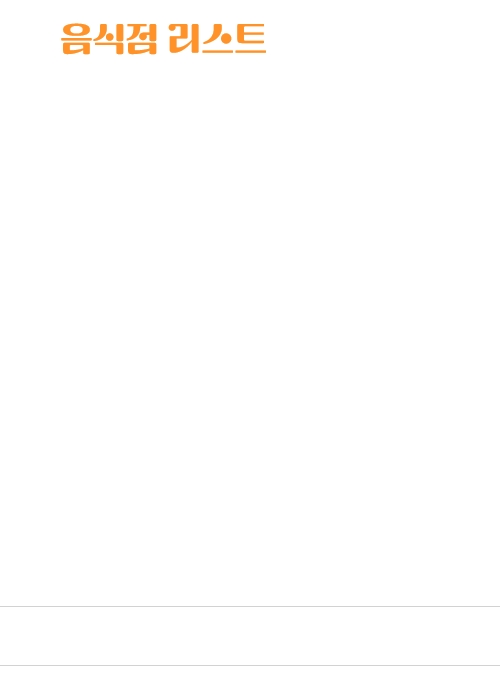
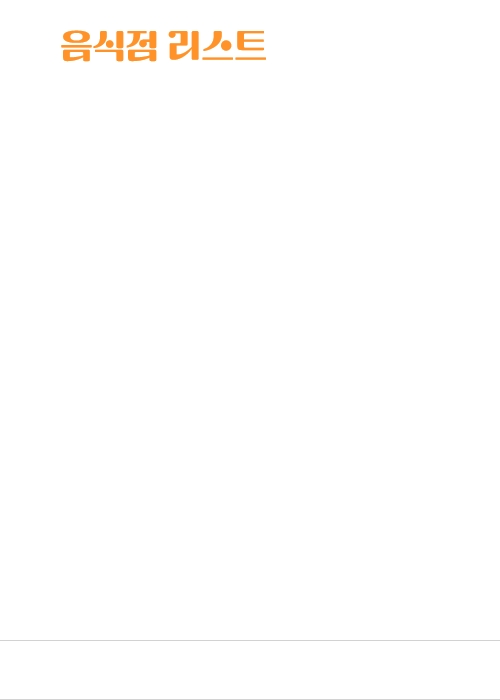
RestaurantFrame,ReservationFrame 배경이미지추가

Changed region(s): [[0.0, 0.99, 1.0, 1.0], [0.12, 0.03, 0.54, 0.09]]

diff --git a/src/tabling/frame/RestaurantListFrame.java b/src/tabling/frame/RestaurantListFrame.java
@@ -44,11 +44,11 @@ public class RestaurantListFrame extends JFrame {
 	private BackgroundPanel bg;
 	private RestaurantListFrame frame;
 	private RestaurantFrame restaurantFrame;
-	
+
 	private JTable table;
 	private JScrollPane scroll;
 	private JComboBox<String> filter;
-	private JButton filterBtn;
+	private JLabel filterBtn;
 	private JLabel homeBtn;
 	private JLabel backBtn;
 	private JTextField searchField;
@@ -102,16 +102,16 @@ public class RestaurantListFrame extends JFrame {
 		// 테이블에 담는 과정
 		tableSet();
 		filter = new JComboBox<String>();
-		filterBtn = new JButton("적용");
-		homeBtn = new JLabel(new ImageIcon("img/home.png"));
+		filterBtn = new JLabel(new ImageIcon("img/적용버튼.png"));
+		homeBtn = new JLabel(new ImageIcon("img/house-solid.png"));
 		backBtn = new JLabel(new ImageIcon("img/quitBtn2.png"));
 		searchField = new JTextField();
 	}
 
 	private void setInitLayout() {
-		bg.setSize(getWidth(),getHeight());
+		bg.setSize(getWidth(), getHeight());
 		bg.setLayout(null);
-		
+
 		setDefaultCloseOperation(JFrame.EXIT_ON_CLOSE);
 		setTitle(" 리스트 화면 " + customerDTO.getCustomerName() + "님");
 		setSize(500, 700);
@@ -120,8 +120,9 @@ public class RestaurantListFrame extends JFrame {
 		setLocationRelativeTo(null); // JFrame을 모니터 가운데 자동 배치
 
 		bg.add(filter);
-		filter.setLocation(270, 80);
-		filter.setSize(110, 30);
+		filter.setBounds(260, 80, 110, 30);
+//		filter.setLocation(270, 80);
+//		filter.setSize(110, 30);
 		filter.setFont(new Font("Noto Sans KR", Font.BOLD, 15));
 
 		for (int i = 0; i < COMBOBOX.length; i++) {
@@ -129,35 +130,36 @@ public class RestaurantListFrame extends JFrame {
 		}
 
 		bg.add(filterBtn);
-		filterBtn.setLocation(400, 80);
-		filterBtn.setSize(70, 30);
+		filterBtn.setBounds(385, 78, 86, 35);
+//		filterBtn.setLocation(400, 80);
+//		filterBtn.setSize(86, 35);
 		filterBtn.setFont(new Font("Noto Sans KR", Font.BOLD, 15));
 
 		bg.add(homeBtn);
-		homeBtn.setLocation(200, 590);
+		homeBtn.setLocation(205, 595);
 		homeBtn.setSize(70, 70);
 
 		bg.add(backBtn);
-		backBtn.setLocation(20, 20);
+		backBtn.setLocation(20, 30);
 		backBtn.setSize(15, 24);
 
 		bg.add(searchField);
 		searchField.setLocation(20, 80);
 		searchField.setSize(202, 30);
 		searchField.setFont(new Font("Noto Sans KR", Font.BOLD, 15));
-		
+
 		add(bg);
 		setVisible(true);
-		
+
 	}
 
 	private void addEventListener() {
 
 		// 적용 버튼
-		filterBtn.addActionListener(new ActionListener() {
+		filterBtn.addMouseListener(new MouseAdapter() {
 
 			@Override
-			public void actionPerformed(ActionEvent e) {
+			public void mousePressed(MouseEvent e) {
 				searchField.setText("");
 				switch (filter.getSelectedItem().toString()) {
 				case RESET:
@@ -182,7 +184,7 @@ public class RestaurantListFrame extends JFrame {
 					setRestaurantList();
 					tableSet();
 					break;
-					// 테이블의 기능을 이용하면 되긴한데 일단 구현해봄
+				// 테이블의 기능을 이용하면 되긴한데 일단 구현해봄
 				case GANADA_UP:
 					RestaurantDTO.setSortType(RestaurantDTO.GANADA);
 					Collections.sort(restaurantList, Collections.reverseOrder());
@@ -206,7 +208,7 @@ public class RestaurantListFrame extends JFrame {
 				}
 			}
 		});
-		
+
 		// 뒤로 가기 버튼 (어느 프레임으로 부터 왔는지를 기억하고 그 곳으로 돌아감)
 		backBtn.addMouseListener(new MouseAdapter() {
 			@Override
@@ -235,7 +237,7 @@ public class RestaurantListFrame extends JFrame {
 				}
 			}
 		});
-		
+
 		// 메인 메뉴로 돌아감
 		homeBtn.addMouseListener(new MouseAdapter() {
 			@Override
@@ -305,7 +307,7 @@ public class RestaurantListFrame extends JFrame {
 			bg.remove(scroll);
 		}
 		contents = new String[restaurantList.size()][head.length];
-		
+
 		// 테이블 내용 입력
 		for (int i = 0; i < restaurantList.size(); i++) {
 			String isOpen = null;
@@ -343,7 +345,7 @@ public class RestaurantListFrame extends JFrame {
 		};
 		sorter = new TableRowSorter<>(tableModel);
 		table.setRowSorter(sorter);
-		
+
 		// 테이블을 스크롤에 넣고 스크롤 설정
 		scroll = new JScrollPane(table);
 		bg.add(scroll);
@@ -374,7 +376,7 @@ public class RestaurantListFrame extends JFrame {
 				this.trackColor = Color.white;
 			}
 		});
-		
+
 		// 테이블 스타일 설정
 		DefaultTableCellRenderer centerAlign = new DefaultTableCellRenderer();
 		centerAlign.setHorizontalAlignment(JLabel.CENTER);
@@ -391,7 +393,7 @@ public class RestaurantListFrame extends JFrame {
 		table.getColumn("평점").setPreferredWidth(30);
 		table.getColumn("평점").setCellRenderer(centerAlign);
 		repaint();
-		
+
 		// 테이블 이벤트 설정
 		table.addMouseListener(new MouseAdapter() {
 			@Override
@@ -434,7 +436,7 @@ public class RestaurantListFrame extends JFrame {
 			e.printStackTrace();
 		}
 	}
-	
+
 	private class BackgroundPanel extends JPanel {
 		private JPanel backgroundPanel;
 		private Image backgroundImage;
@@ -452,5 +454,5 @@ public class RestaurantListFrame extends JFrame {
 		}
 
 	}
-	
+
 }
